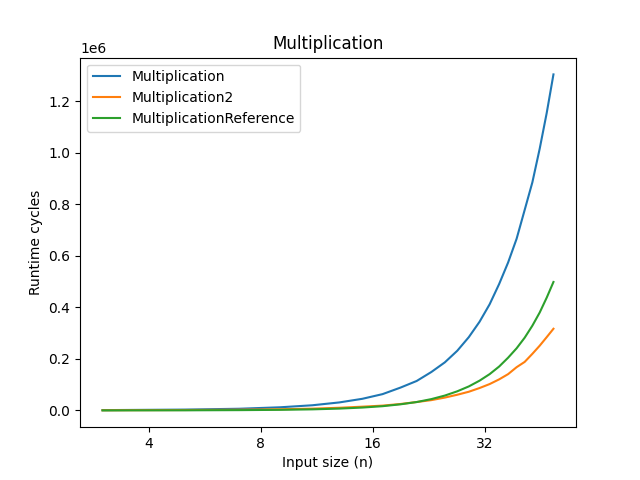
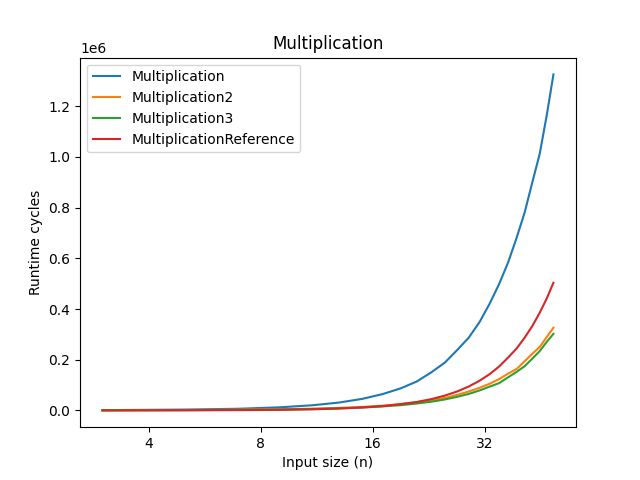
Fix multiplication reference flop count

diff --git a/src/benchmark.cpp b/src/benchmark.cpp
@@ -20,15 +20,10 @@ extern "C"
 #include "reference_cpp.h"
 
 // Compile with `g++ -std=c++17 ./benchmark.cpp` (plus additional optimization flags)
-// TODO: fix multiplication flop count, recalculate renormalization flop count
 
 #define OUTPUT_PATH "../results"
 
 // Flop counts
-
-#define TWO_SUM_FLOPS 6
-#define FAST_TWO_SUM_FLOPS 3
-#define TWO_MULT_FMA_FLOPS 2
 
 unsigned int get_vec_sum_flops(int vector_length)
 {
@@ -83,6 +78,15 @@ unsigned int get_multiplication_flops(int expansion_length)
            get_renormalization_flops(expansion_length + 1, expansion_length);
 }
 
+unsigned int get_optimized_multiplication_flops(int expansion_length)
+{
+    return expansion_length * (expansion_length + 1) / 2 * TWO_MULT_FMA_FLOPS +
+           (expansion_length / 2) * get_vec_sum_flops(expansion_length) +
+           (expansion_length - 1) * 2 +
+           pow(expansion_length, 2) +
+           get_optimized_renormalization_flops(expansion_length + 1, expansion_length);
+}
+
 unsigned int get_multiplication2_flops(int expansion_length)
 { // return Flp count from paper 2, Proposition 3.7
     return 13 / 2 * pow(expansion_length, 2) + 33 / 2 * expansion_length + 6 * (floor(expansion_length * 53 / 45) + 2) + 55;
@@ -114,19 +118,15 @@ unsigned int get_fast_renormalization_flops(int input_expansion_length, int outp
     return vec_sum_flops + vec_sum_err_branch_flops + vec_sum_err_flops;
 }
 
-unsigned int get_addition_reference_flops(int a_length, int b_length, int result_length)
+unsigned int get_fast_addition_flops(int a_length, int b_length, int result_length)
 {
     return get_fast_renormalization_flops(a_length + b_length, result_length);
 }
 
-unsigned int get_multiplication_reference_flops(int expansion_length)
+template <int Term_count>
+unsigned int get_multiplication_reference_flops()
 {
-    // TODO: fix flop count
-    return expansion_length * (expansion_length + 1) / 2 * TWO_MULT_FMA_FLOPS +
-           (expansion_length / 2) * get_vec_sum_flops(expansion_length) +
-           (expansion_length - 1) * 2 +
-           pow(expansion_length, 2) +
-           get_renormalization_flops(expansion_length + 1, expansion_length);
+    return calculate_multiplication_flops<Term_count, Term_count, Term_count>();
 }
 
 // Helpers
@@ -364,7 +364,7 @@ template <int Term_count>
 void measure_addition_reference(ofstream &output_file)
 {
     double runtime = measure_addition(certifiedAdd<Term_count, Term_count, Term_count>, Term_count);
-    double performance = get_addition_reference_flops(Term_count, Term_count, Term_count) / runtime;
+    double performance = get_fast_addition_flops(Term_count, Term_count, Term_count) / runtime;
 
     write_results("Addition", "AdditionReference", runtime, performance, Term_count,
                   output_file);
@@ -400,7 +400,7 @@ void measure_multiplication_reference(ofstream &output_file)
 {
     double runtime = measure_multiplication(baileyMul_renorm<Term_count, Term_count, Term_count>,
                                             Term_count);
-    double performance = get_multiplication_reference_flops(Term_count) / runtime;
+    double performance = get_multiplication_reference_flops<Term_count>() / runtime;
 
     write_results("Multiplication", "MultiplicationReference", runtime, performance, Term_count,
                   output_file);
@@ -515,13 +515,15 @@ int main()
     benchmark_addition(output_file, addition2, "Addition2");
     benchmark_addition(output_file, addition3, "Addition3");
     benchmark_addition(output_file, addition4, "Addition4", get_optimized_addition_flops);
-    benchmark_addition(output_file, addition_fast, "AdditionFast", get_addition_reference_flops);
+    benchmark_addition(output_file, addition_fast, "AdditionFast", get_fast_addition_flops);
     benchmark_addition_reference(output_file);
 
     // Multiplication
     benchmark_multiplication(output_file);
-    benchmark_multiplication(output_file, multiplication2, "Multiplication2");
-    benchmark_multiplication(output_file, multiplication3, "Multiplication3");
+    benchmark_multiplication(output_file, multiplication2, "Multiplication2",
+                             get_optimized_multiplication_flops);
+    benchmark_multiplication(output_file, multiplication3, "Multiplication3",
+                             get_optimized_multiplication_flops);
     benchmark_multiplication_reference(output_file);
 
     // Multiplication2

diff --git a/src/reference_cpp.h b/src/reference_cpp.h
@@ -1,5 +1,9 @@
 ///////////////////////////////// copied from CAMPARY package/////////////////////////////
 
+#define TWO_SUM_FLOPS 6
+#define FAST_TWO_SUM_FLOPS 3
+#define TWO_MULT_FMA_FLOPS 3
+
 // #define UNROLL_RENORM
 
 /* ========== TwoSum ========== */
@@ -314,4 +318,125 @@ static inline void baileyMul_renorm(double *x, double *y, double *z, int _K, int
   }
   // renorm_rand2L<R+1,R>(f, z);	
   fast_renorm3L<R+1,R>(f, R+1, z, R);
+}
+
+// Calculate flop count for multiplication
+template <int K, int L, int R>
+unsigned int calculate_multiplication_flops(){
+  int i, j, n = R;
+
+  int flops = 0;
+
+  //computes the last term of the result f[R]
+  //computes the necessary products (if any) using just simple multiplication
+  const int nn = R;
+  if (nn<L){
+    flops += 1;
+    for(i=1; i<=nn; i++){
+      #if defined __CUDA_ARCH__ || FP_FAST_FMA
+        flops += 2;
+      #else
+        flops += 2;
+      #endif
+    }
+  }else if (nn<K){
+    flops += 1;
+    for(j=1; j<L; j++){
+      #if defined __CUDA_ARCH__ || FP_FAST_FMA
+        flops += 2;
+      #else
+        flops += 2;
+      #endif
+    }
+  }else if (nn<K+L-1){
+    flops += 1;
+    for(i=nn-L+2; i<K; i++){
+      #if defined __CUDA_ARCH__ || FP_FAST_FMA
+        flops += 2;
+      #else
+        flops += 2;
+      #endif
+    }
+  }
+
+  // computes the last R-K elements of the result
+  // we will have (K+L-1 - n) products to compute and sum
+  for (n=(R+1>K+L-1)?K+L-2:R-1; n>=K; n--){
+    flops += TWO_MULT_FMA_FLOPS;
+    for(j=n+1; j<R; j++) 
+    {
+      flops += TWO_SUM_FLOPS;
+    }
+    flops += 1;
+
+    for(i=n-L+2; i<K; i++){
+      flops += TWO_MULT_FMA_FLOPS;
+      for(j=n+1; j<R; j++) 
+      {
+        flops += TWO_SUM_FLOPS;
+      }
+      flops += 1;
+
+      flops += TWO_SUM_FLOPS;
+      for(j=n+1; j<R; j++) 
+      {
+        flops += TWO_SUM_FLOPS;
+      }
+      flops += 1;
+    }
+  }
+  // computes the elements with the same number of products inside
+  // we will have L products to compute and sum
+  for (n=(R+1>K)?K-1:R-1; n>=L; n--){
+    flops += TWO_MULT_FMA_FLOPS;
+    for(i=n+1; i<R; i++) 
+    {
+      flops += TWO_SUM_FLOPS;
+    }
+    flops += 1;
+
+    for(j=1; j<L; j++){
+      flops += TWO_MULT_FMA_FLOPS;
+      for(i=n+1; i<R; i++) 
+      {
+        flops += TWO_SUM_FLOPS;
+      }
+      flops += 1;
+
+      flops += TWO_SUM_FLOPS;
+      for(i=n+1; i<R; i++) 
+      {
+        flops += TWO_SUM_FLOPS;
+      }
+      flops += 1;
+    }
+  }
+  // computes the first L doubles of the result
+  // we will have (n+1) prducts to compute and sum
+  for (n=(R+1>L)?L-1:R-1; n>=0; n--){
+    flops += TWO_MULT_FMA_FLOPS;
+    for(j=n+1; j<R; j++) 
+    {
+      flops += TWO_SUM_FLOPS;
+    }
+    flops += 1;
+
+    for(i=1; i<=n; i++){
+      flops += TWO_MULT_FMA_FLOPS;
+      for(j=n+1; j<R; j++) 
+      {
+        flops += TWO_SUM_FLOPS;
+      }
+      flops += 1;
+
+      flops += TWO_SUM_FLOPS;
+      for(j=n+1; j<R; j++) 
+      {
+        flops += TWO_SUM_FLOPS;
+      }
+      flops += 1;
+    }
+  }
+
+  return flops + get_fast_renormalization_flops(R + 1, R);
 }

diff --git a/asl_project/flops.py b/asl_project/flops.py
@@ -6,6 +6,7 @@ def vec_sum_flops(n):
 
     return flops
 
+
 def vec_sum_err_flops(n):
     flops = 0
 
@@ -14,6 +15,7 @@ def vec_sum_err_flops(n):
 
     return flops
 
+
 def vec_sum_err_branch_flops(n):
     flops = 0
 
@@ -21,6 +23,7 @@ def vec_sum_err_branch_flops(n):
         flops += 6
 
     return flops
+
 
 def renormalization_flops(n, m):
     flops = vec_sum_flops(n)
@@ -31,12 +34,13 @@ def renormalization_flops(n, m):
 
     return flops
 
+
 def multiplication_flops(k):
-    flops = 2
+    flops = 3
 
     for n in range(1, k):
         for i in range(0, n + 1):
-            flops += 2
+            flops += 3
 
         flops += vec_sum_flops(n + 1)
 
@@ -50,12 +54,16 @@ def multiplication_flops(k):
 
     return flops
 
+
 def multiplication(expansion_length):
-    return expansion_length * (expansion_length + 1) / 2 * 2 + \
-        (expansion_length / 2) * vec_sum_flops(expansion_length) + \
-        (expansion_length - 1) * 2 + \
-        expansion_length**2 + \
-        renormalization_flops(expansion_length + 1, expansion_length)
+    return (
+        expansion_length * (expansion_length + 1) / 2 * 3
+        + (expansion_length / 2) * vec_sum_flops(expansion_length)
+        + (expansion_length - 1) * 2
+        + expansion_length**2
+        + renormalization_flops(expansion_length + 1, expansion_length)
+    )
+
 
 print(multiplication_flops(1547))
 print(multiplication(1547))

diff --git a/src/multiplication_optimizations.c b/src/multiplication_optimizations.c
@@ -1,5 +1,6 @@
 #include <immintrin.h>
 #include <cstring>
+
 void multiplication2(double *a, double *b, double *r, const int sizea, const int sizeb,
                      const int sizer)
 {
